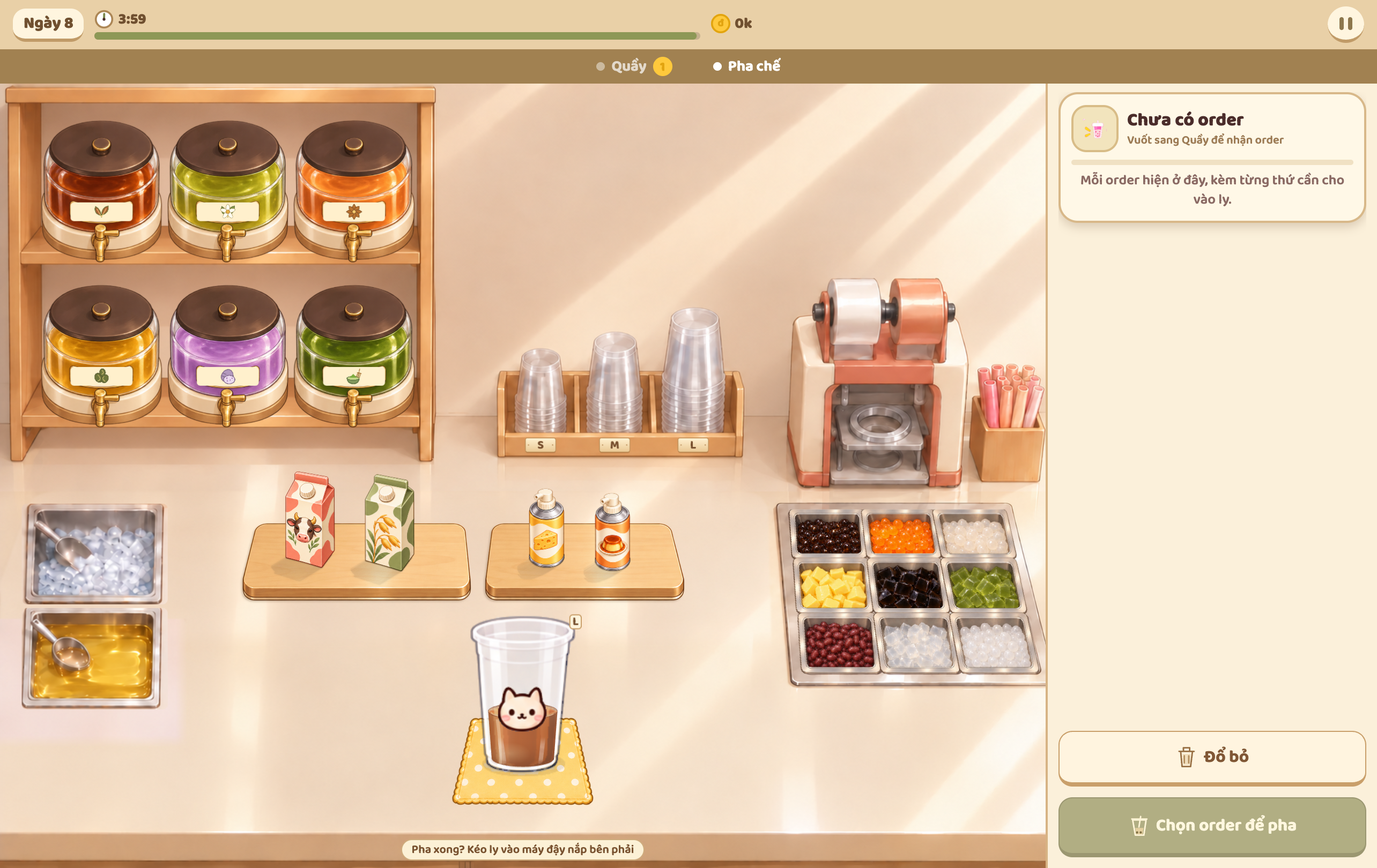
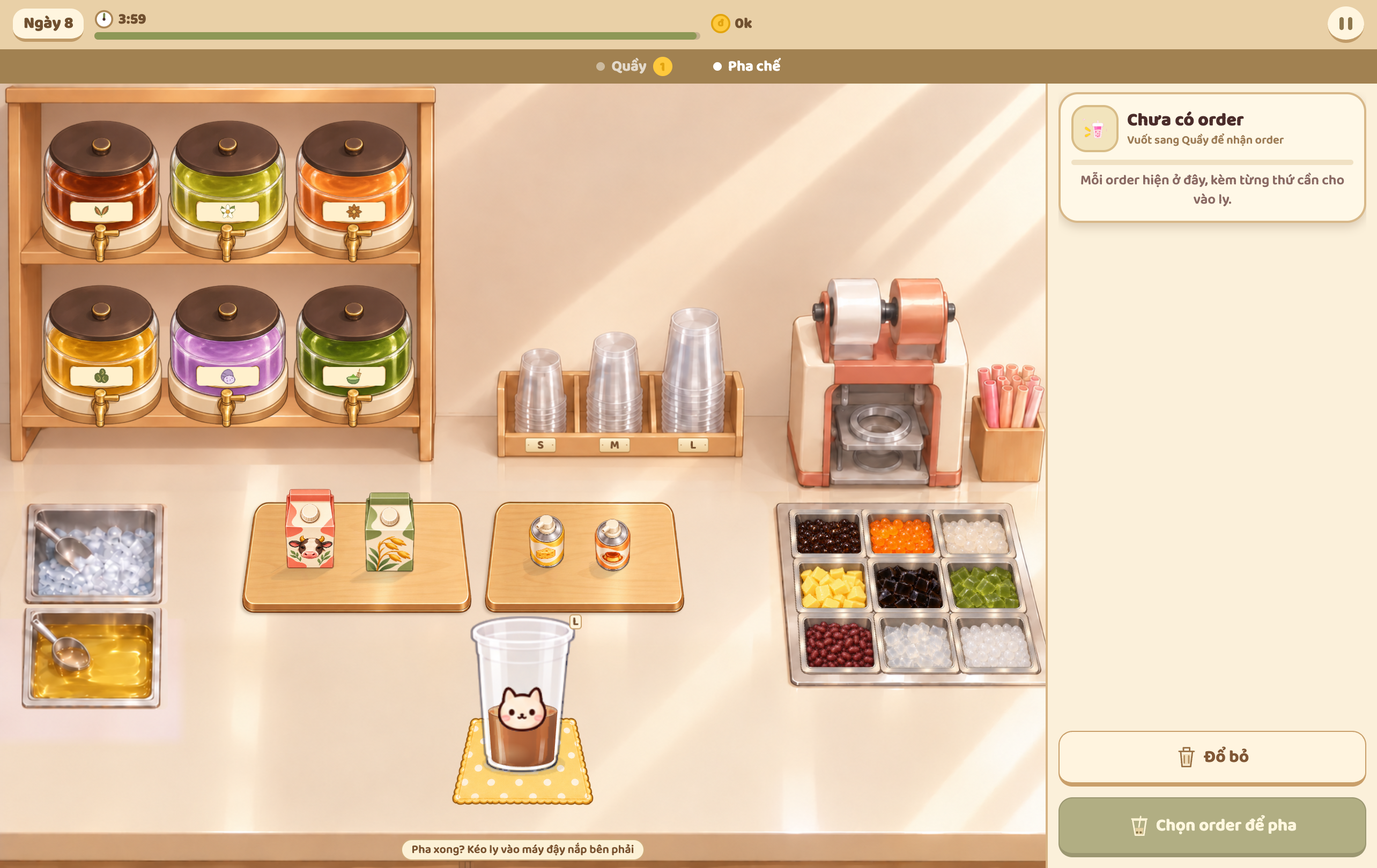
Update dairy boards to v2 atlas; add forward-view milk/cream sprites for order illustrations
- Replace dairy-boards-overhead.png with dairy-boards-overhead-v2.png;
  update KITCHEN_BOARD_ATLAS dimensions and KITCHEN_BOARDS source crops
- Add milk-overhead-forward.png: front-facing carton and cream frames used
  by order card ingredient tiles (milk-overhead-forward-board-edges)
- Update equipmentArt.ts to reference new board atlas crops and forward-
  view milk/cream sprite positions
- Update kitchenArt.ts and kitchenRoomArt.ts exports for the new atlases
- Update kitchenEquipment.ts draw calls to match revised art dimensions
- Update KitchenScene.ts board placement to match v2 atlas source rects
- Update check-order-art.cjs for revised milk/cream tile mappings
- Add docs for steep overhead dairy and forward milk board edges

Changed region(s): [[0.1558, 0.5247, 0.4984, 0.7099]]

diff --git a/src/scenes/KitchenScene.ts b/src/scenes/KitchenScene.ts
@@ -7,7 +7,7 @@ import { GameState } from '../game/reducer';
 import { CUP_HOLDER, CUP_HOLDER_ART, ROOM_BG_CUP_STATION, ROOM_BG_LIDDING, ROOM_BG_SIZE, TEA_DISPENSER_ART, TEA_DISPENSERS } from '../art/kitchenArt';
 import { ORIGINAL_ROOM_SIZE, ROOM_EXTRA_HEIGHT } from '../art/roomGeometry';
 import { TOPPING_PANS } from '../art/toppingArt';
-import { PaintedEquipmentId } from '../art/equipmentArt';
+import { equipmentFrame, PaintedEquipmentId } from '../art/equipmentArt';
 import {
   KITCHEN_ROOM_ART, KITCHEN_ROOM_RENDER, KITCHEN_ROOM_TRAYS,
   KITCHEN_ORIGINAL_COUNTER, KITCHEN_ORIGINAL_COUNTER_ART, KITCHEN_ROOM_TRAY_CELLS,
@@ -233,19 +233,32 @@ export class KitchenScene extends Phaser.Scene {
     this.room.add(this.add.image(cleared.x * originalScale * room.scale,
       room.top + (ROOM_EXTRA_HEIGHT + cleared.y * originalScale) * room.scale, clearBoardsKey)
       .setOrigin(0).setDisplaySize(cleared.width * originalScale * room.scale, cleared.height * originalScale * room.scale));
-    // Boards and packages share an elevated camera; each board keeps its native proportions.
+    // Ease the projection into the rounded front: every source row survives, without a cut line.
     for (const [index, board] of KITCHEN_BOARDS.entries()) {
       const crop = board.source;
       const padding = 20;
-      const key = bakeCanvas(this, `overhead-board:${index}`, crop.width + padding * 2, crop.height + padding * 2, c => {
-        c.shadowColor = '#57391c40'; c.shadowBlur = 9; c.shadowOffsetX = -7; c.shadowOffsetY = 7;
-        c.drawImage(sourceImage(this, KITCHEN_BOARD_ART), crop.x, crop.y, crop.width, crop.height,
-          padding, padding, crop.width, crop.height);
+      const face = bakeCanvas(this, `rounded-board-face:${index}`, board.width, board.height, c => {
+        const image = sourceImage(this, KITCHEN_BOARD_ART);
+        const scale = board.surfaceHeight / crop.topHeight;
+        const start = crop.topHeight - 30;
+        const rest = crop.height - start;
+        const curve = (board.height - start * scale - rest * scale) / (rest * rest);
+        const project = (y: number) => y <= start ? y * scale
+          : start * scale + (y - start) * scale + curve * (y - start) ** 2;
+        c.imageSmoothingQuality = 'high';
+        for (let row = 0; row < crop.height; row++) {
+          const y = project(row), next = project(row + 1);
+          c.drawImage(image, crop.x, crop.y + row, crop.width, 1,
+            0, y, board.width, next - y + 0.2);
+        }
       });
-      const sx = board.width / crop.width, sy = board.height / crop.height;
-      this.room.add(this.add.image((board.x - padding * sx) * room.scale,
-        room.top + (board.y - padding * sy) * room.scale, key).setOrigin(0)
-        .setDisplaySize((board.width + padding * 2 * sx) * room.scale, (board.height + padding * 2 * sy) * room.scale));
+      const key = bakeCanvas(this, `rounded-overhead-board:${index}`, board.width + padding * 2, board.height + padding * 2, c => {
+        c.shadowColor = '#57391c40'; c.shadowBlur = 9; c.shadowOffsetX = -7; c.shadowOffsetY = 7;
+        c.drawImage(sourceImage(this, face), padding, padding, board.width, board.height);
+      });
+      this.room.add(this.add.image((board.x - padding) * room.scale,
+        room.top + (board.y - padding) * room.scale, key).setOrigin(0)
+        .setDisplaySize((board.width + padding * 2) * room.scale, (board.height + padding * 2) * room.scale));
     }
     // Preserve the original room; local counter edits blend only at their marble boundaries.
     for (const [image, patch, key, targetY] of [
@@ -386,7 +399,8 @@ export class KitchenScene extends Phaser.Scene {
         const equipmentKey = station.kind === 'foam' ? `cream-can-${station.id}` : `milk-carton-${station.id}`;
         const art = this.textures.exists(equipmentKey) ? sourceImage(this, equipmentKey) : null;
         if (art) {
-          const foot = station.kind === 'milk' ? h * 150 / 154 : h;
+          const equipment = equipmentFrame(station.id as PaintedEquipmentId);
+          const foot = h * equipment.foot / equipment.height;
           const box = equipmentShadowExtent(w, h, foot);
           const shadow = atlas.add(`shadow:${station.key}:${sized(w, h)}`, box.width, box.height,
             c => drawEquipmentShadow(c, art, station.id as PaintedEquipmentId, w, h, foot));

diff --git a/src/art/equipmentArt.ts b/src/art/equipmentArt.ts
@@ -1,34 +1,40 @@
-import paintedEquipment from '../assets/kitchen/dairy-boards-overhead.png';
+import paintedEquipment from '../assets/kitchen/dairy-boards-overhead-v2.png';
+import forwardMilk from '../assets/kitchen/milk-overhead-forward.png';
 import { el, svgDoc } from './svg';
 
 export const PAINTED_EQUIPMENT = paintedEquipment;
-export const PAINTED_MILK = paintedEquipment;
+export const PAINTED_MILK = forwardMilk;
 export type PaintedEquipmentId = 'whole' | 'oat' | 'cheese' | 'brulee';
 interface Crop { x: number; y: number; width: number; height: number }
+/** Tight upright frames for strongly foreshortened overhead packaging. */
+export const EQUIPMENT_FRAMES = {
+  milk: { width: 72, height: 110, foot: 106 },
+  cream: { width: 64, height: 100, foot: 100 },
+};
 
 /** Alpha bounds and printed ingredient details, measured on the refined transparent atlas. */
 export const EQUIPMENT_ATLAS = {
   width: 1254, height: 1254,
   cells: {
-    cheese: { x: 305, y: 531, width: 195, height: 430 },
-    brulee: { x: 775, y: 531, width: 198, height: 430 },
+    cheese: { x: 288, y: 577, width: 236, height: 351 },
+    brulee: { x: 777, y: 576, width: 242, height: 353 },
   } satisfies Record<'cheese' | 'brulee', Crop>,
   details: {
-    cheese: { x: 331, y: 749, width: 136, height: 117 },
-    brulee: { x: 793, y: 761, width: 157, height: 112 },
+    cheese: { x: 334, y: 790, width: 134, height: 90 },
+    brulee: { x: 812, y: 791, width: 170, height: 99 },
   } satisfies Record<'cheese' | 'brulee', Crop>,
 };
 
-/** Folded roofs, side planes and sloped bases share the boards' elevated camera. */
+/** Squarely forward-facing fronts retain the steep camera and large exposed roofs. */
 export const MILK_ATLAS = {
-  width: 1254, height: 1254,
+  width: 1536, height: 1024,
   cells: {
-    whole: { x: 278, y: 28, width: 242, height: 465 },
-    oat: { x: 745, y: 31, width: 243, height: 469 },
+    whole: { x: 252, y: 147, width: 444, height: 697 },
+    oat: { x: 840, y: 145, width: 445, height: 699 },
   } satisfies Record<'whole' | 'oat', Crop>,
   details: {
-    whole: { x: 288, y: 226, width: 166, height: 164 },
-    oat: { x: 752, y: 228, width: 174, height: 235 },
+    whole: { x: 285, y: 555, width: 386, height: 235 },
+    oat: { x: 875, y: 532, width: 374, height: 303 },
   } satisfies Record<'whole' | 'oat', Crop>,
 };
 
@@ -42,11 +48,11 @@ function equipmentSource(id: PaintedEquipmentId) {
 /** Keep the painted proportions and place the actual foot on the counter's measured base. */
 export function equipmentFrame(id: PaintedEquipmentId) {
   const milk = id === 'whole' || id === 'oat';
-  const width = milk ? 72 : 64, height = milk ? 154 : 150;
+  const { width, height, foot } = milk ? EQUIPMENT_FRAMES.milk : EQUIPMENT_FRAMES.cream;
   const atlas = equipmentSource(id), source = atlas.source;
-  const scale = Math.min((milk ? 64 : 56) / source.width, (milk ? 147 : 146) / source.height);
+  const scale = Math.min((width - 8) / source.width, (foot - 3) / source.height);
   const w = source.width * scale, h = source.height * scale;
-  return { atlas, source, width, height, target: { x: (width - w) / 2, y: 150 - h, width: w, height: h } };
+  return { atlas, source, width, height, foot, target: { x: (width - w) / 2, y: foot - h, width: w, height: h } };
 }
 
 /** Canvas and HTML use exactly the same crop and proportions. No runtime image editing. */

diff --git a/src/art/kitchenRoomArt.ts b/src/art/kitchenRoomArt.ts
@@ -3,7 +3,7 @@ import originalRoom from '../assets/kitchen/kitchen-room-counter-cups.png';
 import originalCounter from '../assets/kitchen/kitchen-overhead.png';
 import clearIceCounter from '../assets/kitchen/kitchen-room-clear-ice.png';
 import clearBoardsCounter from '../assets/kitchen/kitchen-counter-clear-boards.png';
-import overheadDairy from '../assets/kitchen/dairy-boards-overhead.png';
+import overheadDairy from '../assets/kitchen/dairy-boards-overhead-v2.png';
 
 /** Preserve the room before the repeated whole-image edits softened its details. */
 export const KITCHEN_ROOM_RENDER = originalRoom;
@@ -17,8 +17,10 @@ export const KITCHEN_CLEAR_BOARDS_PATCH = { x: 0, y: 340, width: 1228, height: 2
 export const KITCHEN_BOARD_ART = overheadDairy;
 export const KITCHEN_BOARD_ATLAS = { width: 1254, height: 1254 };
 export const KITCHEN_BOARDS = [
-  { source: { x: 25, y: 1006, width: 619, height: 213 }, x: 440, y: 800, width: 420, height: 420 * 213 / 619 },
-  { source: { x: 682, y: 1006, width: 541, height: 213 }, x: 882, y: 800, width: 366, height: 366 * 213 / 541 },
+  { source: { x: 45, y: 961, width: 602, height: 231, topHeight: 200 },
+    x: 440, y: 760, width: 420, height: 206, surfaceHeight: 192 },
+  { source: { x: 681, y: 965, width: 535, height: 227, topHeight: 198 },
+    x: 882, y: 760, width: 366, height: 206, surfaceHeight: 192 },
 ];
 /** Only this small edited region supplies the aligned ice/sugar trays. Everything else is original. */
 export const KITCHEN_ROOM_TRAYS = alignedTraysRoom;

diff --git a/src/art/kitchenArt.ts b/src/art/kitchenArt.ts
@@ -65,7 +65,7 @@ import {
   KITCHEN_ROOM_TRAY_RAISE, KITCHEN_ROOM_CLEAR_ICE, KITCHEN_CLEAR_BOARDS,
 } from './kitchenRoomArt';
 import { TOPPING_TRAY_EDGES } from './toppingGeometry';
-import { PAINTED_EQUIPMENT, PAINTED_MILK } from './equipmentArt';
+import { EQUIPMENT_FRAMES, PAINTED_EQUIPMENT, PAINTED_MILK } from './equipmentArt';
 
 /**
  * A sprite is the **URL** of its own file. `import cup from '../assets/kitchen/cup.png'` hands one
@@ -251,8 +251,10 @@ export const ROOM_BG_LIDDING = {
 };
 export const ROOM_BG_EXTRAS = {
   // Each pair rests inside its compact central board, leaving room for its cast shadow.
-  milkCenters: [565, 710], milkBases: [884, 890], milkWidth: 104, milkHeight: 104 * 154 / 72,
-  foamCenters: [996, 1116], foamBases: [884, 890], foamWidth: 76, foamHeight: 76 * 150 / 64,
+  milkCenters: [565, 710], milkBases: [884, 890], milkWidth: 104,
+  milkHeight: 104 * EQUIPMENT_FRAMES.milk.height / EQUIPMENT_FRAMES.milk.width,
+  foamCenters: [996, 1116], foamBases: [884, 890], foamWidth: 76,
+  foamHeight: 76 * EQUIPMENT_FRAMES.cream.height / EQUIPMENT_FRAMES.cream.width,
   // Both trays are painted into the room, with matching straight edges and a narrow gap.
   sugar: {
     x: ROOM_BG_ICE_MACHINE.x,

diff --git a/src/art/kitchenEquipment.ts b/src/art/kitchenEquipment.ts
@@ -1,6 +1,6 @@
 /** Painted milk/cream packages and vector serving tools. */
 import { svgDoc, uid } from './svg';
-import { paintedEquipmentDetailSvg, paintedEquipmentSvg } from './equipmentArt';
+import { EQUIPMENT_FRAMES, paintedEquipmentDetailSvg, paintedEquipmentSvg } from './equipmentArt';
 
 /** A syrup bottle in a 60×150 box, its body tinted `color`. */
 export function kitchenBottleSvg(width: number, height: number, color: string): string {
@@ -21,7 +21,7 @@ export function kitchenBottleSvg(width: number, height: number, color: string): 
     '0 0 60 150');
 }
 
-export const MILK_CARTON_ART = { width: 72, height: 154, foot: 150 };
+export const MILK_CARTON_ART = EQUIPMENT_FRAMES.milk;
 
 /** Ingredient insets crop the same hand-painted packaging shown on the counter. */
 export function milkIngredientSvg(kind: 'whole' | 'oat', size = 40): string {

diff --git a/docs/dairy-steep-overhead.md b/docs/dairy-steep-overhead.md
@@ -1,0 +1,21 @@
+# Steep overhead milk, cream and boards
+
+The milk now uses the [forward-facing carton update](milk-forward-board-edges.md); cream and board source art remain from this atlas. The board edge correction below remains current.
+
+The previous artwork retained too much of the package fronts. The replacement [dairy-boards-overhead-v2.png](../src/assets/kitchen/dairy-boards-overhead-v2.png) shows large carton roofs, foreshortened front faces, broad can shoulders and near-circular caps. The 1254×1254 RGBA atlas was made with the built-in imagegen tool, copied unchanged from `/Users/dev/.codex/generated_images/01a13e8f-a6f5-7171-9278-add319e78a23/exec-c8e49153-3590-4de5-9eba-f15b2c8565a7.png`. Original background textures and their rendering are unchanged.
+
+Both boards keep their deeper top planes. Their updated projection eases smoothly through the rounded front edges rather than cutting directly to a six-unit compressed strip. Every source row is retained; the nominal front allocation is now 14 units and the total height206. Their positions remain x440/882, y760 with widths420/366. The shadow is cast once from the finished silhouette. Package feet remain y884/890, leaving space for their attached directional shadows before the near edge.
+
+`EQUIPMENT_FRAMES` owns tighter display frames (milk72×110 with foot106, cream64×100 with foot100). Counter silhouettes keep their painted source proportions; shrinking the frames removes the old blank space above the foreshortened packages and keeps carry textures, order illustrations and touch areas aligned. Milk and cream still share source crops with their order icons, including the cow/oats/cheese/caramel detail images. Per-column base profiles keep cast and contact shadows joined to the new silhouettes.
+
+[Desktop preview](central-boards-1284.png) · [Portrait](central-boards-390.png) · [Landscape](central-boards-932.png).
+
+Validation: production build and regression suite; 24 tap/drag checks targeting the actual painted packages at 1284×810,390×844,932×430. Assets copied to Android and iOS projects; native binaries were not built.
+
+## Built-in imagegen prompt
+
+```text
+Use case: style-transfer. Asset type: SIX isolated game sprites on a genuinely transparent 1536x1536 RGBA atlas, 2 columns by 3 rows. Input image 1 supplies the painted kitchen style, warm ivory/honey color and countertop context ONLY. Input image 2 supplies product identities/colors ONLY and is an example of the WRONG low/frontal camera. DO NOT preserve image 2 camera. Redraw all SIX objects from a DRAMATICALLY STEEPER TOP-DOWN camera: camera looks DOWN at 65 degrees above horizontal, 25 degrees away from straight overhead. Think overhead kitchen management game, NOT catalog photography, NOT front elevation. This correction must be obvious: TOP surfaces dominate, cylindrical shoulders and caps are almost circular (ellipse height at least 80% of ellipse width), carton front labels are visibly vertically foreshortened, carton roofs occupy about 40% of their total image height. The cream nozzles are seen mostly on TOP, with only short front faces. Bodies upright standing on countertop, but their vertical dimension is strongly foreshortened by this overhead camera. Fronts directed toward bottom edge, very little sideways yaw; back and front board edges horizontal. Every object uses the SAME steep overhead camera and light from upper right. Keep crisp refined warm painted realism, paper folds, brushed steel, fine warm outline; match materials of kitchen. No text.
+Atlas layout: columns centered x384 and1152, 3 rows of512 pixels, generous genuinely transparent gutters. Row1 y0..512: whole milk carton LEFT (peach/ivory, recognizable cow picture), oat milk carton RIGHT (sage/ivory, oats picture). Each full silhouette roughly290px wide by350px tall, within y65..440. Their folded ROOFS are large exposed planar shapes taking up around140px of that height, caps broad almost-circular disks; front body only around200px tall, NOT tall frontal rectangles. Each carton squared footprint visible, no thin token roof. Row2 y512..1024: cheese whipping-cream dispenser LEFT (yellow/ivory, cheese wedge picture), caramel whipping-cream dispenser RIGHT (amber/ivory, custard picture), functional ivory pump valves. Each can roughly240px wide by310px total height, y600..940. Metal shoulder top ellipse approximately220px WIDE and180px HIGH, occupying much of the visible silhouette. Foreshortened body below this shoulder, oval lower rims matching the same camera. No tall frontal can bodies, no thin narrow top ellipses. Row3 y1024..1536: two EMPTY low wooden serving boards. LEFT board600px wide by320px image depth; RIGHT board520px wide by320px image depth; center x384 and1152, top y1100 and bottom y1420. Broad rounded honey-maple top planes, very thin5px front thickness, visible subtle wood grain. Horizontal edges, side edges recede slightly inward at back; no diagonal rotation. These boards look nearly like full rectangles viewed from ABOVE, NOT long thin shelf strips. Keep boards EMPTY, not assembled with packages. Output exactly these SIX independent sprites only. NO cast shadows, no floor, no backdrop, no room, no glow or halo, no text, no checkerboard painted into transparency. Preserve the cow/oats/cheese/caramel package identities. The main task is a large camera perspective correction, not recoloring.
+```
+

diff --git a/CLAUDE.md b/CLAUDE.md
@@ -952,13 +952,14 @@ What the painting is allowed to decide, and what the geometry is:
   background artwork and lettering without an added tag or graphic. Milk cartons show a cow
   or oats; cream dispensers show cheese or a caramel spiral, without printed words.
 - **Equipment and orders share hand-painted artwork.** `art/equipmentArt.ts` defines package
-  crops, printed ingredient close-ups and proportional placement from `dairy-boards-overhead.png`.
-  Its six transparent sprites include both boards. Folded cartons and brushed-metal cream dispensers share the room's elevated viewpoint;
+  crops, printed ingredient close-ups and proportional placement from `dairy-boards-overhead-v2.png`
+  for cream and boards, and `milk-overhead-forward.png` for the cartons. Milk faces straight toward
+  the player with horizontal front edges while retaining the steep roof view. Folded cartons and brushed-metal cream dispensers share the room's elevated viewpoint;
   cream cans have rigid plastic valves and short outlet spouts.
   Canvas prepares counter/hand textures once; SVG wrappers use the same sprites on orders.
-  `PRELOAD` includes the atlas. See `docs/dairy-overhead.md` for the current imagegen prompt.
-  Milk's painted foot remains at 150/154 of its 72×154 frame. Front-facing carton frames are
-  104×222 room units at x565/710 on the left compact board, with 76×178 cream frames at
+  `PRELOAD` includes both atlases. See `docs/milk-forward-board-edges.md` and `docs/dairy-steep-overhead.md` for imagegen prompts.
+  `EQUIPMENT_FRAMES` owns the tighter overhead frames: milk 72×110, foot106; cream 64×100, foot100.
+  Carton frames are 104×159 room units at x565/710 on the left compact board, with 76×119 cream frames at
   x996/1116 on the right board. Each pair's feet stagger slightly at y884/890, leaving space
   on the wooden top for the cast shadows before its front edge.
   Carton and cream silhouettes project down-left. Both use each source column's
@@ -1025,11 +1026,13 @@ is clipped to the real liquid. The texture has 40 units of headroom rather than 
 
 
 ### The kitchen's artwork
-The active room keeps `kitchen-room-counter-cups.png` for the upper room. The lower counter,
+The active room keeps `kitchen-room-counter-cups.png` for the upper room. The lower counter
 renders directly from the untouched first `kitchen-overhead.png`, starting at native source y343.
-Both wooden boards use independent transparent sprites from `dairy-boards-overhead.png`, at
-native proportions, 420×144.5 and 366×144.1 logical units at x440/882, y800. They share the
-packages' elevated camera and show thin front edges. A masked marble removal source fills only their old footprints
+Both wooden boards use independent transparent sprites from `dairy-boards-overhead-v2.png`,
+420×206 and 366×206 logical units at x440/882, y760. The top-to-front projection eases smoothly
+through the rounded lower edge, using every source row. The old six-unit compressed edge looked
+clipped; reserve 14 units for its complete front profile and cast the outer shadow once after
+assembling the board. A masked marble removal source fills only their old footprints
 and shadow margins. Raised ice/sugar use separate rounded rim crops and their existing small
 old-ice clearing patch. See `docs/central-boards.md` and `docs/restored-original-boards.md`.
 **Preserve background sharpness:** the user requires unrelated artwork to remain untouched.

diff --git a/docs/milk-forward-board-edges.md b/docs/milk-forward-board-edges.md
@@ -1,0 +1,16 @@
+# Forward-facing milk and complete board edges
+
+The cartons now face squarely toward the player while keeping their large steeply viewed roofs and nearly circular caps. The new transparent 1536×1024 atlas [milk-overhead-forward.png](../src/assets/kitchen/milk-overhead-forward.png) was generated with the built-in imagegen tool and copied unchanged from `/Users/dev/.codex/generated_images/01a13e8f-a6f5-7171-9278-add319e78a23/exec-044c5e09-42f6-4228-bb4e-bfdbc1b6b826.png`. Only milk uses this atlas; cream, boards and all room textures retain their existing sources. Order illustrations, carried cartons and printed ingredient details share the new milk crops.
+
+The boards' six-unit compressed front strips made their bottom corners look cut off. Both boards now use every source row in a continuous projection that eases through the lower rounded profile. The surface transitions smoothly to a full 14-unit front allocation, total height206 at the existing y760. The finished board silhouette casts its shadow once, preserving the complete rounded corners and lower highlights without a hard horizontal split.
+
+[Desktop preview](central-boards-1284.png) · [Portrait](central-boards-390.png) · [Landscape](central-boards-932.png).
+
+Validation: production build and full regression suite; 24 taps/drags on actual painted packages across desktop and both phone orientations. Production assets copied into Android and iOS projects. Native binaries were not built.
+
+## Built-in imagegen prompt
+
+```text
+Use case: precise-object-edit. Reference: the provided six-sprite atlas supplies EXACT MILK CARTON identities, steep overhead camera, materials and upper-right lighting. Output ONLY TWO isolated milk-carton sprites on TRUE transparent RGBA background, side by side, 1536x1024. LEFT peach/ivory cow whole-milk carton. RIGHT sage/ivory oat milk carton. Preserve the strong TOP-DOWN view: camera remains 65 degrees above horizontal, about25 degrees from straight overhead. Large exposed folded roofs occupying40-45% of each silhouette height, screw caps viewed nearly as circular disks, front body vertically foreshortened. CHANGE ONLY their YAW: rotate both upright cartons about their vertical axes so their FRONT PANELS FACE STRAIGHT TOWARD THE PLAYER at the bottom edge of the image. The front panels' top and bottom edges must be HORIZONTAL, both front side edges vertical in the image, roofs left/right symmetric, centerline vertical. Show NO broad right-side panel and NO diagonally slanted front bottom edge. The entire cow picture and oat picture centered squarely toward viewer. Do NOT lower the camera into an eye-level frontal product photo: we still look steeply DOWN at the roof. This is a yaw correction, not a change of elevation. Both complete carton silhouettes, no clipping, consistent size, one per half of atlas with generous transparent margins. Centers x384 and1152, roughly350px wide and530px tall; each fully within y200..800. Warm refined painted paperboard, peach/ivory and sage/ivory, functional folded top, realistic cream caps, clear cow/oat pictorial labels, precise fine warm edges. No names, text, floor shadows, glow, backdrop, boards, cream cans, extra objects, scenery or cast floor shadow. Preserve true transparency and sharp edges.
+```
+

diff --git a/docs/central-boards.md b/docs/central-boards.md
@@ -1,6 +1,6 @@
 # Compact central milk and cream boards
 
-Both boards now use the [matching elevated-view artwork](dairy-overhead.md) shared with the four packages. The independent transparent sprites render at logical x440/y800, 420×144.5, and x882/y800, 366×144.1, preserving their native proportions. A 22-unit gap separates them; both clear the raised ice/sugar station on the left and toppings on the right.
+Both boards use the [steep overhead artwork](dairy-steep-overhead.md). The independent sprites render at logical x440/y760, 420×206, and x882/y760, 366×206. Their projection eases continuously through the rounded front edges, preserving every painted source row and allowing a full 14-unit lower profile. The outer shadow is drawn once from each finished silhouette. A 22-unit gap separates the boards; both clear the raised ice/sugar station on the left and toppings on the right.
 
 Milk stands on the left board at x565/710; cream stands on the right at x996/1116. Each pair's feet use y884/890, a small depth stagger. Both package types now use elevated-view artwork and directional shadows anchored to their painted lower silhouettes, with enough wooden surface ahead of each foot for the shadow. Selection targets follow the packages.
 

diff --git a/docs/dairy-overhead.md b/docs/dairy-overhead.md
@@ -1,5 +1,7 @@
 # Matching elevated kitchen viewpoint
 
+Superseded by the [steep overhead correction](dairy-steep-overhead.md). The atlas and proportions below record the previous, insufficiently elevated view.
+
 The six-sprite transparent atlas [dairy-boards-overhead.png](../src/assets/kitchen/dairy-boards-overhead.png) replaces the previous frontal milk/cream artwork and the clipped board sprites. The built-in imagegen tool generated it using the kitchen layout and original art as perspective references, plus the previous packages for identity. The selected 1254×1254 RGBA output was copied unchanged from `/Users/dev/.codex/generated_images/01a13e8f-a6f5-7171-9278-add319e78a23/exec-95fba0eb-1cb5-4b2d-ba37-130d3d89ebcd.png`.
 
 Cartons show deeper folded roofs, visible side planes and sloped bases. Cream cans show more of the shoulder and valve tops. Both boards show broad wooden top surfaces with thinner front edges. Source crops preserve native proportions in Canvas, carried objects and order illustrations; pictorial cow, oats, cheese and caramel identifiers remain. Ingredient close-ups use the new printed details. Original background PNGs and background rendering are unchanged by this update.
